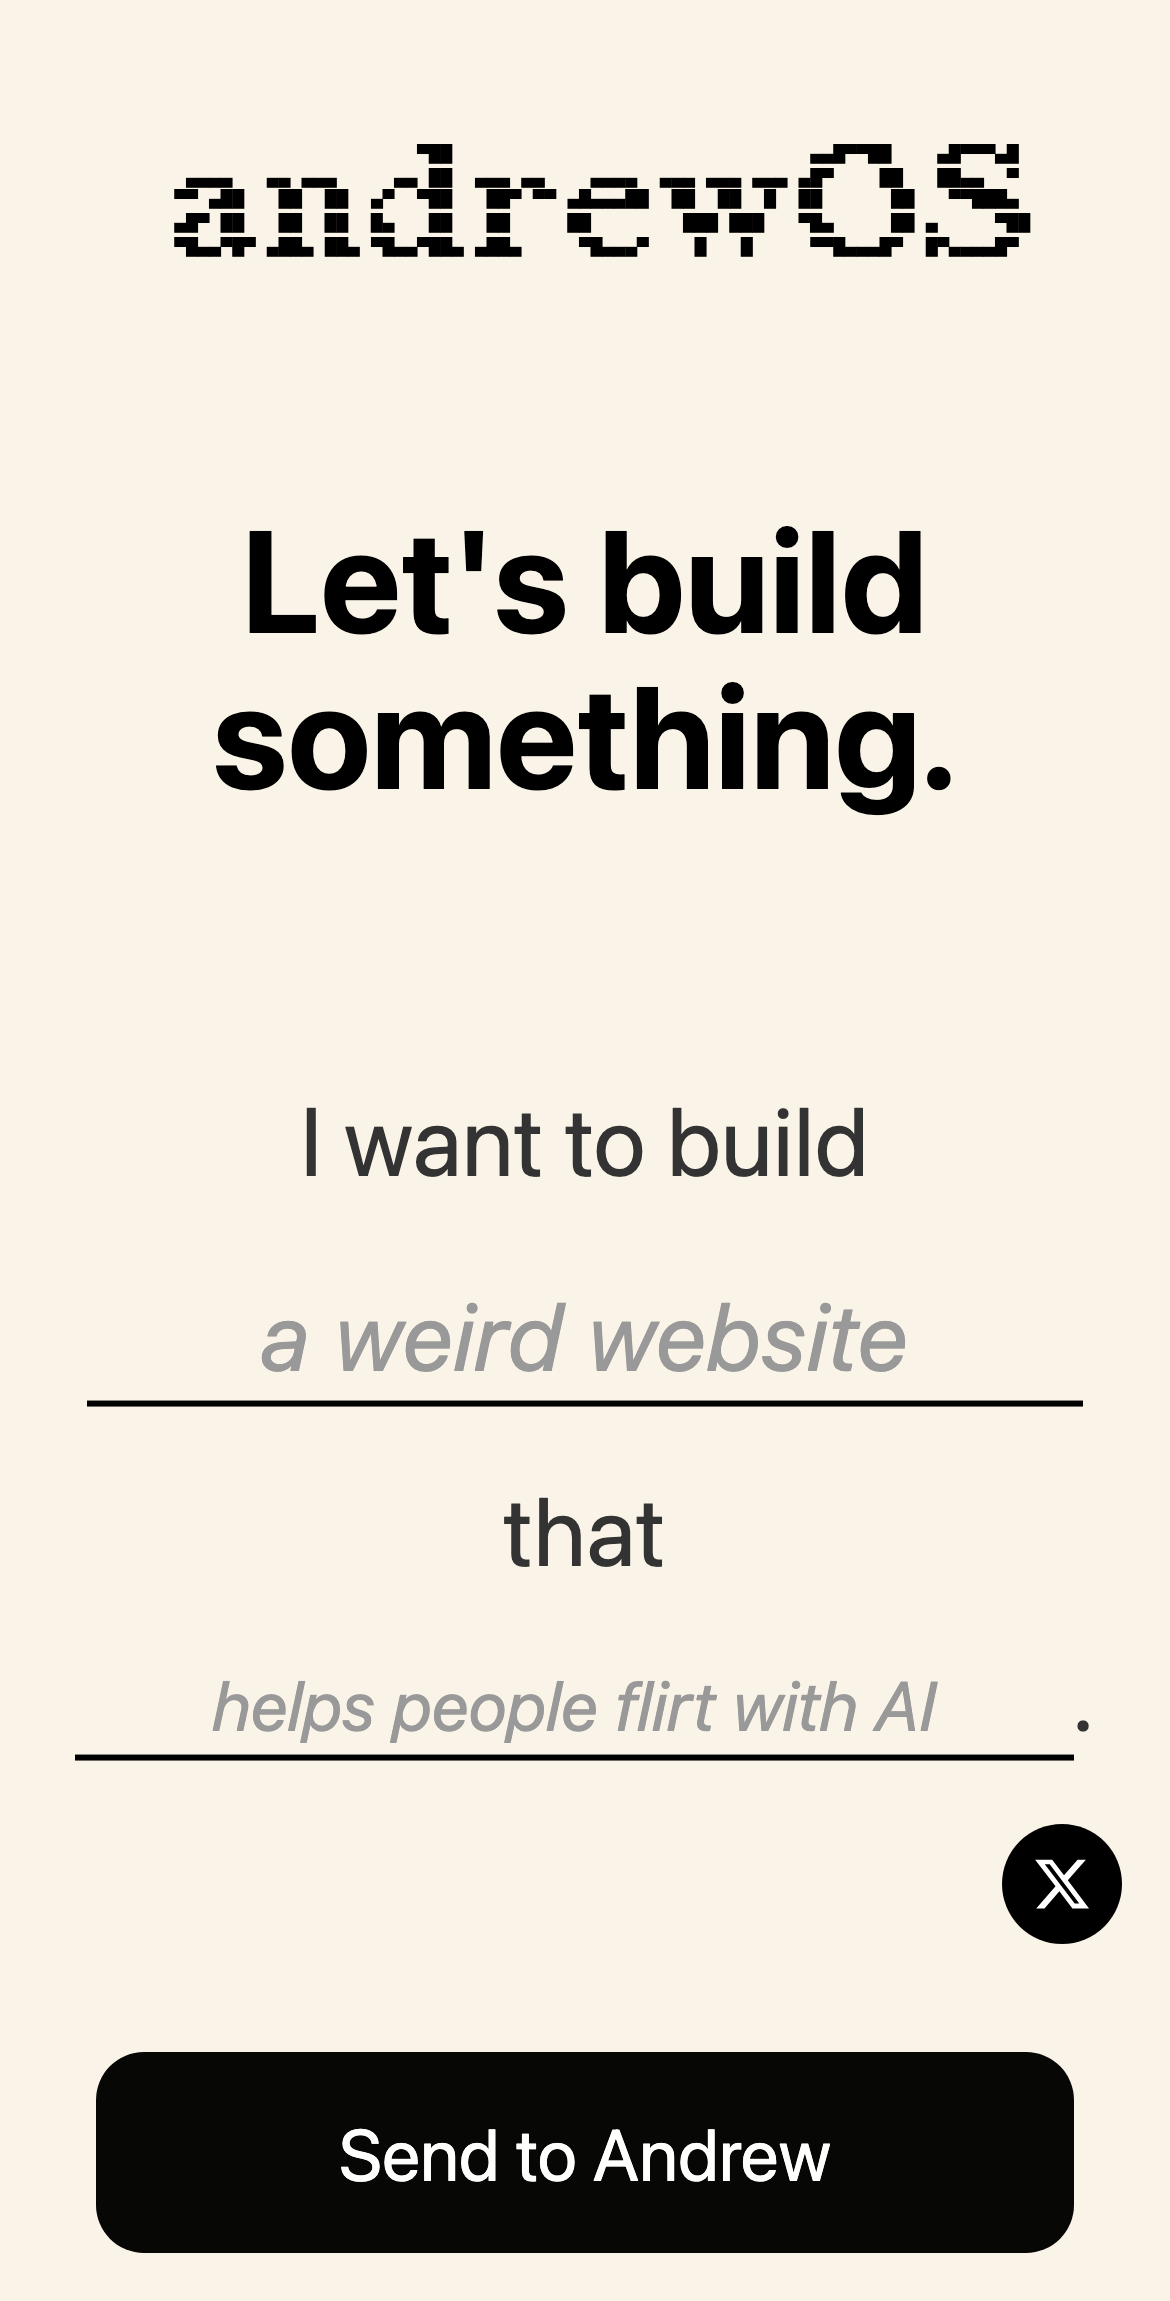
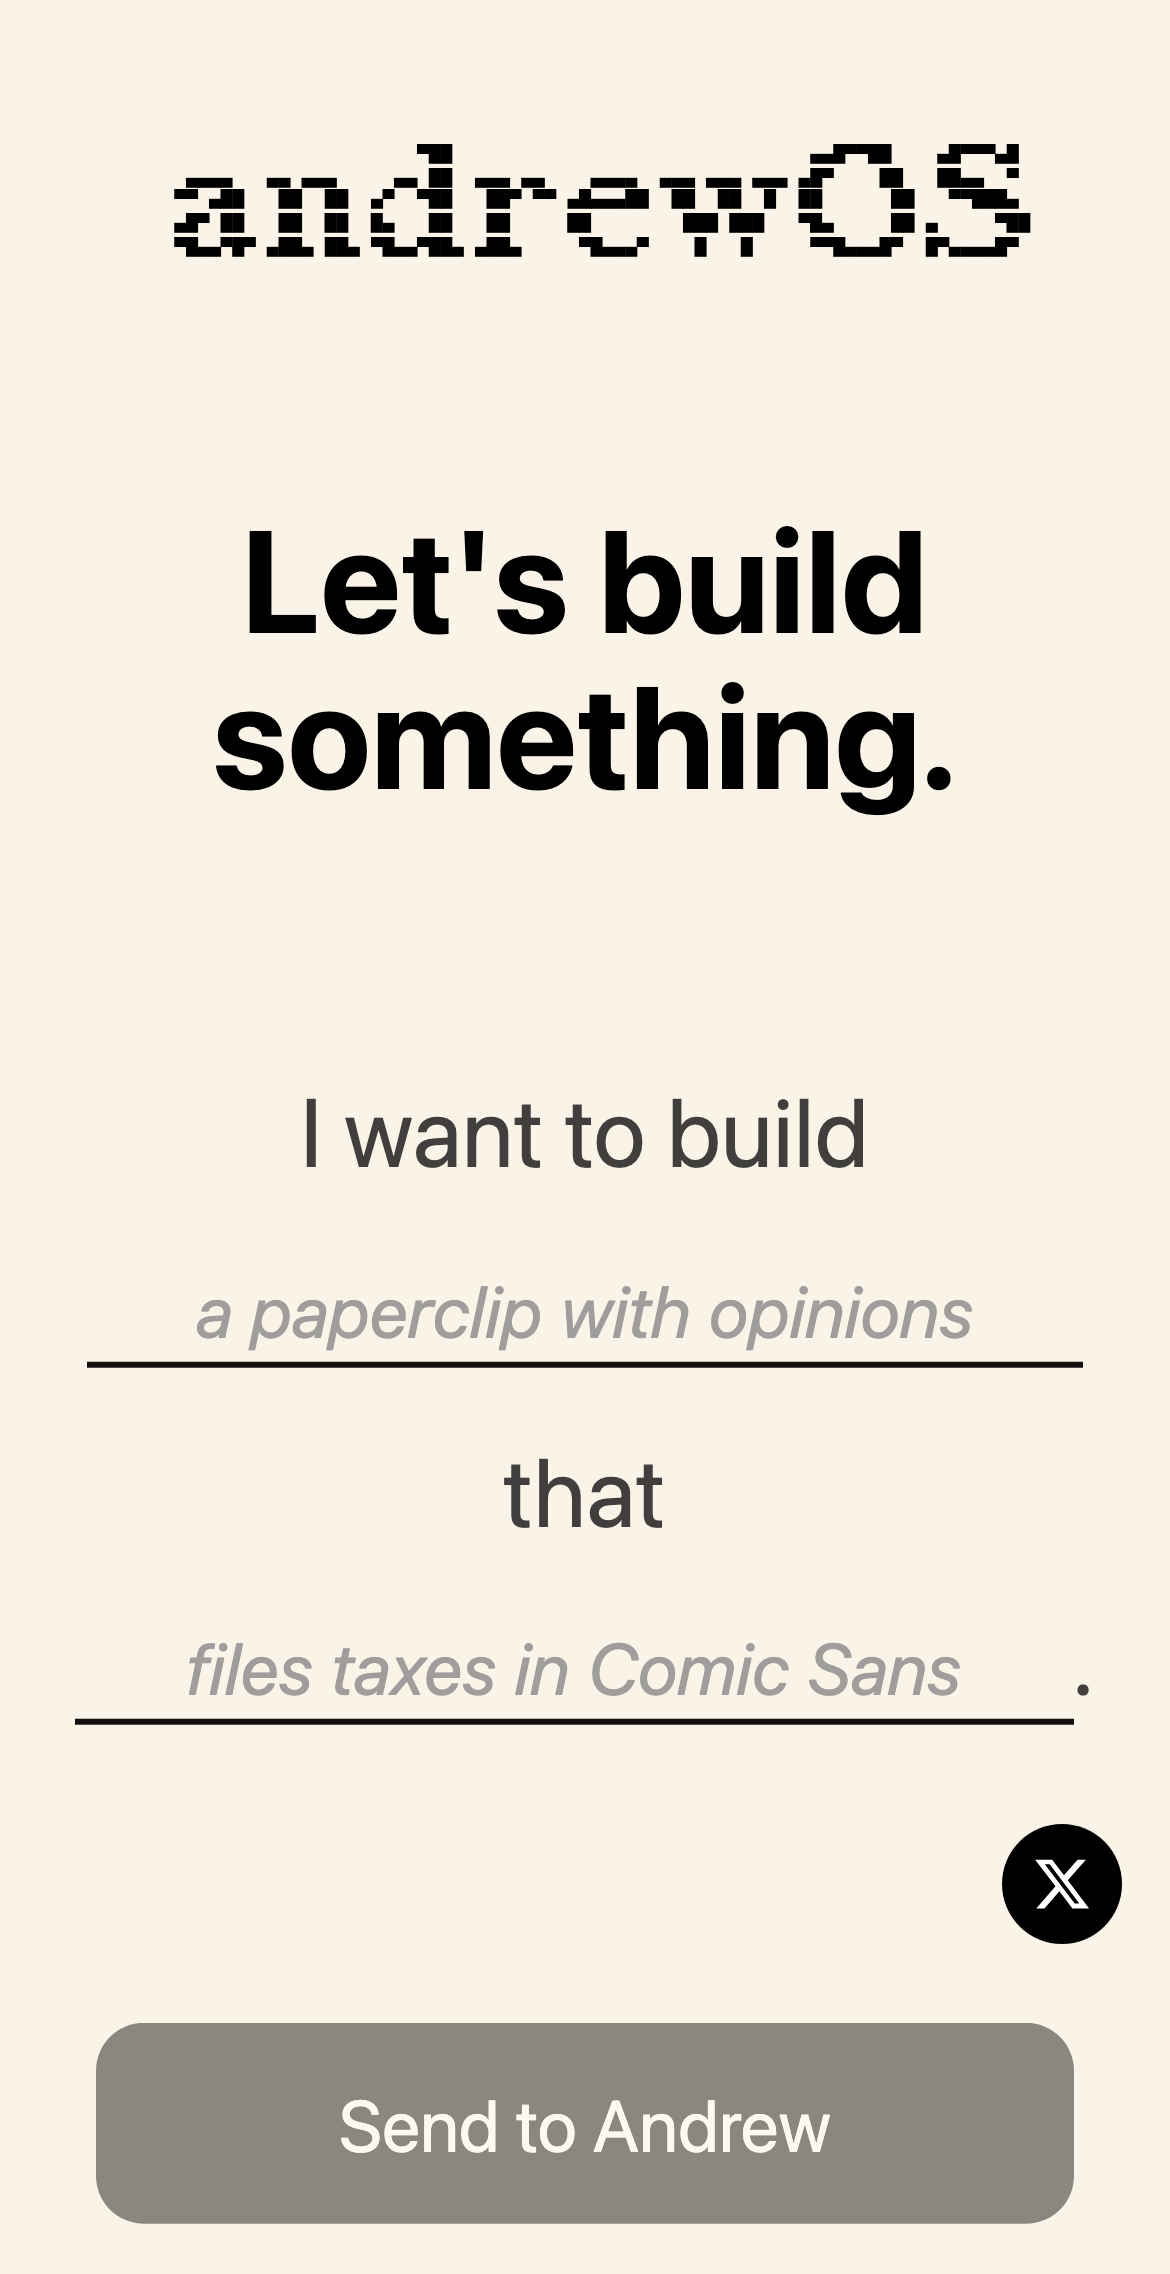
Give the homepage more funny madlib placeholders so the idea blanks aren't stuck on two lines.

diff --git a/tests/ui/home.spec.js b/tests/ui/home.spec.js
@@ -144,4 +144,76 @@ test.describe('landing page', () => {
     const shotPath = join(SCREENSHOT_DIR, `thank-you-submit-${testInfo.project.name}.png`);
     await page.screenshot({ path: shotPath, fullPage: true });
   });
+
+  async function madlibPlaceholders(page, { waitForFade } = { waitForFade: true }) {
+    await page.waitForFunction(() => Boolean(document.getElementById('what')?.placeholder), null, {
+      timeout: 10_000,
+    });
+    if (waitForFade) {
+      await expect(page.locator('.madlib')).toHaveClass(/fade-in/, { timeout: 15_000 });
+    }
+    return page.evaluate(() => ({
+      what: document.getElementById('what').placeholder,
+      does: document.getElementById('does').placeholder,
+      pool: window.MADLIB_PLACEHOLDERS,
+    }));
+  }
+
+  test('madlib placeholder pool is complete and applied', async ({ page }, testInfo) => {
+    await page.goto('/');
+    const { what, does, pool } = await madlibPlaceholders(page);
+    expect(pool.length).toBeGreaterThanOrEqual(8);
+    for (const pair of pool) {
+      expect(pair).toHaveLength(2);
+      expect(String(pair[0]).trim()).not.toBe('');
+      expect(String(pair[1]).trim()).not.toBe('');
+    }
+    expect(pool).toContainEqual([what, does]);
+
+    mkdirSync(SCREENSHOT_DIR, { recursive: true });
+    await page.screenshot({
+      path: join(SCREENSHOT_DIR, `madlib-pool-${testInfo.project.name}.png`),
+      fullPage: true,
+    });
+  });
+
+  test('madlib picker can show the last pair', async ({ page }, testInfo) => {
+    await page.addInitScript(() => {
+      Math.random = () => 0.999999;
+    });
+    await page.goto('/');
+    const { what, does, pool } = await madlibPlaceholders(page);
+    expect([what, does]).toEqual(pool[pool.length - 1]);
+
+    mkdirSync(SCREENSHOT_DIR, { recursive: true });
+    await page.screenshot({
+      path: join(SCREENSHOT_DIR, `madlib-last-${testInfo.project.name}.png`),
+      fullPage: true,
+    });
+  });
+
+  test('madlib reloads never show empty placeholders', async ({ page }, testInfo) => {
+    test.setTimeout(90_000);
+    await page.addInitScript(() => {
+      Math.random = () => {
+        const n = window.MADLIB_PLACEHOLDERS?.length || 1;
+        const raw = Number(sessionStorage.getItem('madlib-i') || '0');
+        sessionStorage.setItem('madlib-i', String(raw + 1));
+        return (raw % n) / n;
+      };
+    });
+
+    const reloads = testInfo.project.name === 'desktop-chromium' ? 12 : 1;
+    const seen = new Set();
+    for (let r = 0; r < reloads; r += 1) {
+      await page.goto('/');
+      const { what, does } = await madlibPlaceholders(page, { waitForFade: false });
+      expect(what.trim()).not.toBe('');
+      expect(does.trim()).not.toBe('');
+      seen.add(`${what}|||${does}`);
+    }
+    if (reloads >= 8) {
+      expect(seen.size).toBeGreaterThanOrEqual(8);
+    }
+  });
 });

diff --git a/terminal.html b/terminal.html
@@ -141,13 +141,8 @@
               document.documentElement.innerHTML = html;
               const typeSrc = await fetch('/js/type-text.js').then((r) => r.text());
               (0, eval)(typeSrc);
-              
-              // Define placeholders here since it needs to be in scope
-              const placeholders = [
-                ["a weird website", "helps people flirt with AI"],
-                ["a talking button", "writes code while you nap"],
-                [""]
-              ];
+              const madlibSrc = await fetch('/js/madlib-placeholders.js').then((r) => r.text());
+              (0, eval)(madlibSrc);
 
               // Wait for DOM to be ready
               if (document.readyState === 'loading') {
@@ -155,7 +150,7 @@
               }
 
               // Now execute the initialization as a window.onload function
-              const randomIndex = Math.floor(Math.random() * (placeholders.length - 1));
+              const pair = pickMadlibPlaceholder();
               const inputs = document.querySelectorAll('.madlib input');
               
               // Initial animation sequence
@@ -213,7 +208,7 @@
 
               // Handle both placeholder and input text resizing
               inputs.forEach((input, i) => {
-                input.placeholder = placeholders[randomIndex][i];
+                input.placeholder = pair[i];
                 const initialSize = calculateFontSize(input.placeholder);
                 input.style.fontSize = initialSize + 'rem';
                 

diff --git a/js/madlib-placeholders.js b/js/madlib-placeholders.js
@@ -1,0 +1,34 @@
+/**
+ * Homepage madlib suggestions for "I want to build X that Y."
+ * Keep pairs complete (no empty stubs). Picker uses the full list length.
+ */
+(function (global) {
+  const MADLIB_PLACEHOLDERS = [
+    ['a weird website', 'helps people flirt with AI'],
+    ['a talking button', 'writes code while you nap'],
+    ['a haunted fridge', 'texts you when the milk gives up'],
+    ['a pocket arcade', 'high-scores your grocery list'],
+    ['a polite virus', 'only crashes boring meetings'],
+    ['a frog GPS', 'ribbits you away from traffic'],
+    ['a midnight radio', 'DJs songs you forgot you loved'],
+    ['a cursed toaster', 'burns only the bread you wanted'],
+    ['a doorbell', 'screens guests with trivia'],
+    ['a plant cam', 'guilt-trips you in haiku'],
+    ['a tiny OS', 'hides your tabs from your boss'],
+    ['a paperclip with opinions', 'files taxes in Comic Sans'],
+  ];
+
+  function pickMadlibPlaceholderIndex(random = Math.random) {
+    const n = MADLIB_PLACEHOLDERS.length;
+    if (n === 0) return 0;
+    return Math.min(n - 1, Math.floor(Number(random()) * n));
+  }
+
+  function pickMadlibPlaceholder(random = Math.random) {
+    return MADLIB_PLACEHOLDERS[pickMadlibPlaceholderIndex(random)];
+  }
+
+  global.MADLIB_PLACEHOLDERS = MADLIB_PLACEHOLDERS;
+  global.pickMadlibPlaceholderIndex = pickMadlibPlaceholderIndex;
+  global.pickMadlibPlaceholder = pickMadlibPlaceholder;
+})(typeof window !== 'undefined' ? window : globalThis);

diff --git a/tests/unit/madlib-placeholders.test.js b/tests/unit/madlib-placeholders.test.js
@@ -1,0 +1,31 @@
+import { describe, expect, it } from 'vitest';
+import '../../js/madlib-placeholders.js';
+
+const { MADLIB_PLACEHOLDERS, pickMadlibPlaceholder, pickMadlibPlaceholderIndex } = globalThis;
+
+describe('madlib placeholders', () => {
+  it('has at least eight complete funny/cool pairs', () => {
+    expect(MADLIB_PLACEHOLDERS.length).toBeGreaterThanOrEqual(8);
+    for (const pair of MADLIB_PLACEHOLDERS) {
+      expect(pair).toHaveLength(2);
+      expect(pair[0].trim()).not.toBe('');
+      expect(pair[1].trim()).not.toBe('');
+    }
+  });
+
+  it('keeps the original two suggestions', () => {
+    expect(MADLIB_PLACEHOLDERS).toContainEqual(['a weird website', 'helps people flirt with AI']);
+    expect(MADLIB_PLACEHOLDERS).toContainEqual(['a talking button', 'writes code while you nap']);
+  });
+
+  it('can pick the last index when random is just under 1', () => {
+    const last = MADLIB_PLACEHOLDERS.length - 1;
+    expect(pickMadlibPlaceholderIndex(() => 0.999999)).toBe(last);
+    expect(pickMadlibPlaceholder(() => 0.999999)).toEqual(MADLIB_PLACEHOLDERS[last]);
+  });
+
+  it('picks the first pair when random is 0', () => {
+    expect(pickMadlibPlaceholderIndex(() => 0)).toBe(0);
+    expect(pickMadlibPlaceholder(() => 0)).toEqual(MADLIB_PLACEHOLDERS[0]);
+  });
+});

diff --git a/index.html b/index.html
@@ -354,15 +354,10 @@
     <button class="send-button">Send to Andrew</button>
     <div class="final-subtitle">(for real this time)</div>
     <script src="/js/type-text.js"></script>
+    <script src="/js/madlib-placeholders.js"></script>
     <script>
-      const placeholders = [
-        ["a weird website", "helps people flirt with AI"],
-        ["a talking button", "writes code while you nap"],
-        [""]
-      ];
-      
       window.onload = function() {
-        const randomIndex = Math.floor(Math.random() * (placeholders.length - 1));
+        const pair = pickMadlibPlaceholder();
         const inputs = document.querySelectorAll('.madlib input');
 
         // Initial animation sequence
@@ -421,7 +416,7 @@
 
         // Handle both placeholder and input text resizing
         inputs.forEach((input, i) => {
-          input.placeholder = placeholders[randomIndex][i];
+          input.placeholder = pair[i];
           const initialSize = calculateFontSize(input.placeholder);
           input.style.fontSize = initialSize + 'rem';
           

diff --git a/ai/web/logs/2026-09-18-madlib-placeholders-handoff.md b/ai/web/logs/2026-09-18-madlib-placeholders-handoff.md
@@ -1,0 +1,63 @@
+# Session handoff: Homepage madlib placeholder pool (2026-09-18)
+
+> **Start here for the next chat.** Continues/supersedes `ai/web/logs/2026-09-18-thank-you-typewriter-handoff.md` for pickup. Hub ticket [B2 Add more placeholder suggestions](https://relay.andrewos.com/admin/feedback/3DA7EBEE-CEA7-459E-BD98-DD37165F2FC9). Fix is local on `main`; live andrewos.com still has the two-pair pool until this commit deploys.
+
+---
+
+## Status at a glance
+
+| Area | Status |
+|------|--------|
+| Madlib placeholder pool | **Done** — 12 complete funny/cool `I want to build X that Y` pairs; empty stub gone; picker uses full list length |
+| Homepage redesign | **Not in scope** — Gate 1 was the tiny pool only |
+| Debug instrumentation | **None added** |
+| Tests | **Passed** this session after last edit (`home.spec.js` sessionStorage reload counter). Vitest 20/20 including `madlib-placeholders.test.js` (4). Playwright `tests/ui/home.spec.js` 24/24 (desktop Chromium/Firefox/WebKit + mobile Chromium). Local browser on `http://127.0.0.1:4173` showed *a polite virus* / *only crashes boring meetings*, then *a midnight radio*; Send still opened follow-up. Shots: `ai/logs/2/screenshots/madlib-pool-*.png`, `madlib-last-*.png` (last pair: *a paperclip with opinions* / *files taxes in Comic Sans*). |
+| Git commit / PR | **This `/push`** — do **not** include dirty `vibe/` bundle, `tests/ui/vibe.spec.js`, `ai/logs/5/`, or tracked `node_modules` |
+
+---
+
+## What shipped
+
+### 1. Shared madlib pool
+
+Homepage idea blanks only ever showed two pairs. A third empty slot plus `Math.random() * (placeholders.length - 1)` meant the last index never appeared.
+
+`js/madlib-placeholders.js` holds 12 complete pairs (keeps the original two) and `pickMadlibPlaceholder()` / `pickMadlibPlaceholderIndex()` using `Math.floor(random() * length)`.
+
+`index.html` loads the script and applies one pair on load. `terminal.html` `exit` fetches `/`, evals `type-text.js` and `madlib-placeholders.js` (inline `innerHTML` does not run `src` tags), then uses the same picker.
+
+Form, contact step, and Formspree are unchanged.
+
+### 2. Tests
+
+- Unit: pool ≥8 complete pairs; originals kept; random `0` → first; random just under `1` → last.
+- Playwright: pool applied on load; last pair forced via `Math.random = () => 0.999999`; 12 Chromium reloads with a sessionStorage counter collect ≥8 unique non-empty pairs.
+
+---
+
+## Files touched this session
+
+| Path | What |
+|------|------|
+| `js/madlib-placeholders.js` | Shared pool + picker |
+| `index.html` | Load script; apply `pickMadlibPlaceholder()` |
+| `terminal.html` | Exit→home evals the same script |
+| `tests/unit/madlib-placeholders.test.js` | Pool size + last-index picker |
+| `tests/ui/home.spec.js` | Pool / last-pair / reload UI tests |
+| `ai/logs/2/screenshots/madlib-*.png` | Proof shots |
+
+**Not this ticket (leave dirty):** `vibe/assets/`, `vibe/index.html`, `tests/ui/vibe.spec.js`, `ai/logs/5/screenshots/`, tracked `node_modules`.
+
+---
+
+## Open / next
+
+1. Confirm GitHub Pages serves `/js/madlib-placeholders.js` and live reloads show more than the old two pairs (never empty blanks).
+2. Hub B2: Yard recommended **Waiting to ship** until deploy is live; do not mark Done unless asked. B1 thank-you leftover is already on `main` (`67ca745`); verify that on production too if not yet.
+3. Unrelated dirty vibe tree still needs its own `/push` if you want that bundle committed.
+
+---
+
+## Prompt for next chat
+
+> Read `ai/web/logs/2026-09-18-madlib-placeholders-handoff.md`. Homepage madlib now has 12 funny/cool pairs via `js/madlib-placeholders.js`; picker uses the full list. Tests passed locally; live andrewos.com needs the deploy. Do not redesign the homepage unless asked. Leave vibe/node_modules dirt alone unless that is the task. Next: verify production placeholders, then Place/close hub B2 if the deploy is live.

diff --git a/ai/web/logs/2026-09-18-thank-you-typewriter-handoff.md b/ai/web/logs/2026-09-18-thank-you-typewriter-handoff.md
@@ -1,6 +1,6 @@
 # Session handoff: Homepage thank-you typewriter leftover (2026-09-18)
 
-> **Start here for the next chat.** Continues/supersedes `ai/web/logs/2026-08-03-vibecade-coin-hud-handoff.md` for pickup. Hub ticket [B1 Revamp Homepage](https://relay.andrewos.com/admin/feedback/2DC0F01C-7DA5-4B3E-8ECC-BF6EA9C95558). Fix is local on `main`; live andrewos.com is still the old typewriter until this commit deploys.
+> **Superseded for pickup.** Start at `ai/web/logs/2026-09-18-madlib-placeholders-handoff.md`. Hub ticket [B1 Revamp Homepage](https://relay.andrewos.com/admin/feedback/2DC0F01C-7DA5-4B3E-8ECC-BF6EA9C95558) thank-you leftover is on `main` (`67ca745`).
 
 ---
 
@@ -12,7 +12,7 @@
 | Homepage redesign / Gerry Wheat site | **Not in scope** — Gate 1 was the typewriter glitch only |
 | Debug instrumentation | **None added** |
 | Tests | **Passed** this session after last edit (`home.spec.js` nbsp assertion). Vitest `type-text.test.js` (3). Playwright `tests/ui/home.spec.js` desktop-chromium + mobile-chromium (6). Local browser submit + overlap on `http://127.0.0.1:4173` settled `Thanks! I'll be in touch.` Shots: `ai/logs/2/screenshots/thank-you-submit-*.png`, `thank-you-overlap-*.png`. |
-| Git commit / PR | **In progress at handoff write** — push this session. Do **not** include dirty `vibe/` bundle, `tests/ui/vibe.spec.js`, or tracked `node_modules` (leftover from vibecade work). |
+| Git commit / PR | **Done** — `67ca745` on `main`. Dirty `vibe/` / `node_modules` still uncommitted. |
 
 ---
 

diff --git a/ai/context/context.md b/ai/context/context.md
@@ -10,7 +10,7 @@ _(Increment this number when creating a new logs folder)_
 
 Active implementation folder: `ai/logs/7/` — vibe-pan-sensitivity (completed)
 
-**Latest session log (start here):** `ai/web/logs/2026-09-18-thank-you-typewriter-handoff.md`
+**Latest session log (start here):** `ai/web/logs/2026-09-18-madlib-placeholders-handoff.md`
 
 ## Current Master Plan
 
